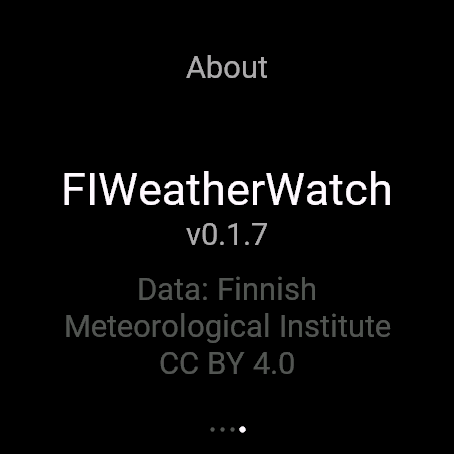
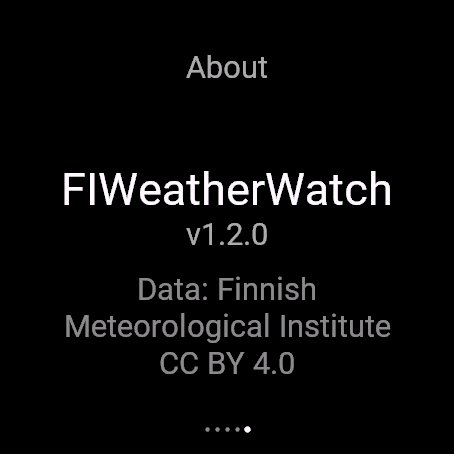
Site: About screenshot from the 1.2.0 build (the old one showed v0.1.7)
Also on public-vm, outside this repo: tallimedia.com's Weather Watch card
now uses the transparent copy of the forecast image
(weatherwatch-3-forecast.0791b5ebdc.png), so it no longer sits in a white
box in dark mode; backup index.html.bak-*-preTransparentWW.

Changed region(s): [[0.1233, 0.5859, 0.8634, 0.8326], [0.4317, 0.4934, 0.5859, 0.5551], [0.4317, 0.9251, 0.5551, 0.9559]]

diff --git a/app/public/index.html b/app/public/index.html
@@ -364,7 +364,7 @@
         <figcaption class="shot-cap" id="cap-waves"></figcaption></figure>
       <figure style="margin:0"><div class="shot-disc"><img src="/public/shots/raw-glance.png?v=1" alt="Glance"></div>
         <figcaption class="shot-cap" id="cap-glance"></figcaption></figure>
-      <figure style="margin:0"><div class="shot-disc"><img src="/public/shots/raw-pg-about.png?v=1" alt="About page"></div>
+      <figure style="margin:0"><div class="shot-disc"><img src="/public/shots/raw-pg-about.png?v=2" alt="About page"></div>
         <figcaption class="shot-cap" id="cap-about"></figcaption></figure>
     </div>
   </div>
